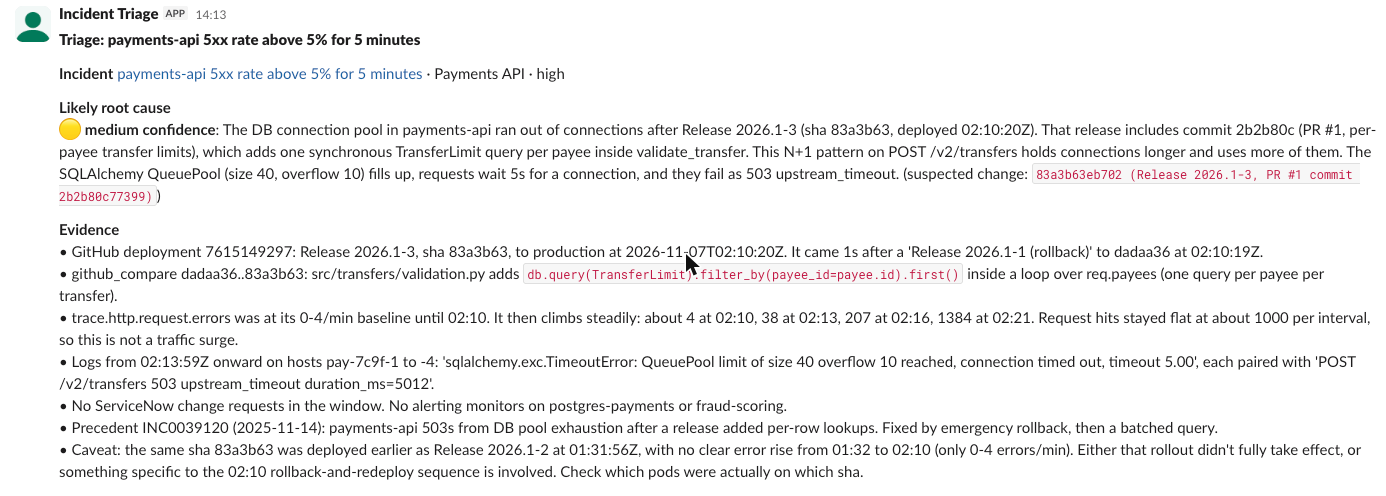
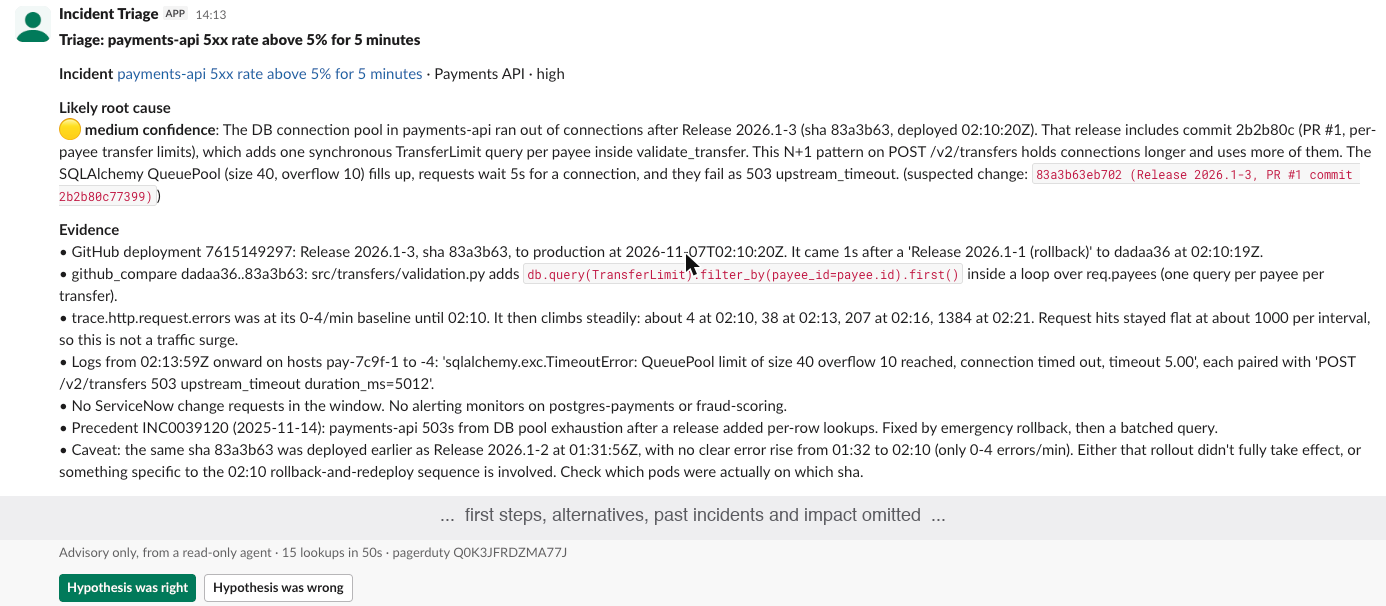
Show the feedback buttons in the README screenshot

Changed region(s): [[0.0, 0.0, 0.9928, 0.998]]

diff --git a/README.md b/README.md
@@ -31,7 +31,7 @@ submit_triage               structured report, checked against a schema
 Slack post  ──►  on-call clicks right/wrong  ──►  feedback log
 ```
 
-**Example Slack post** (the top of the post, from a synthetic test incident):
+**Example Slack post** (from a synthetic test incident, with the middle sections left out):
 
 ![Triage post in Slack showing the likely root cause, confidence level and evidence](docs/slack-triage-post.png)
 
